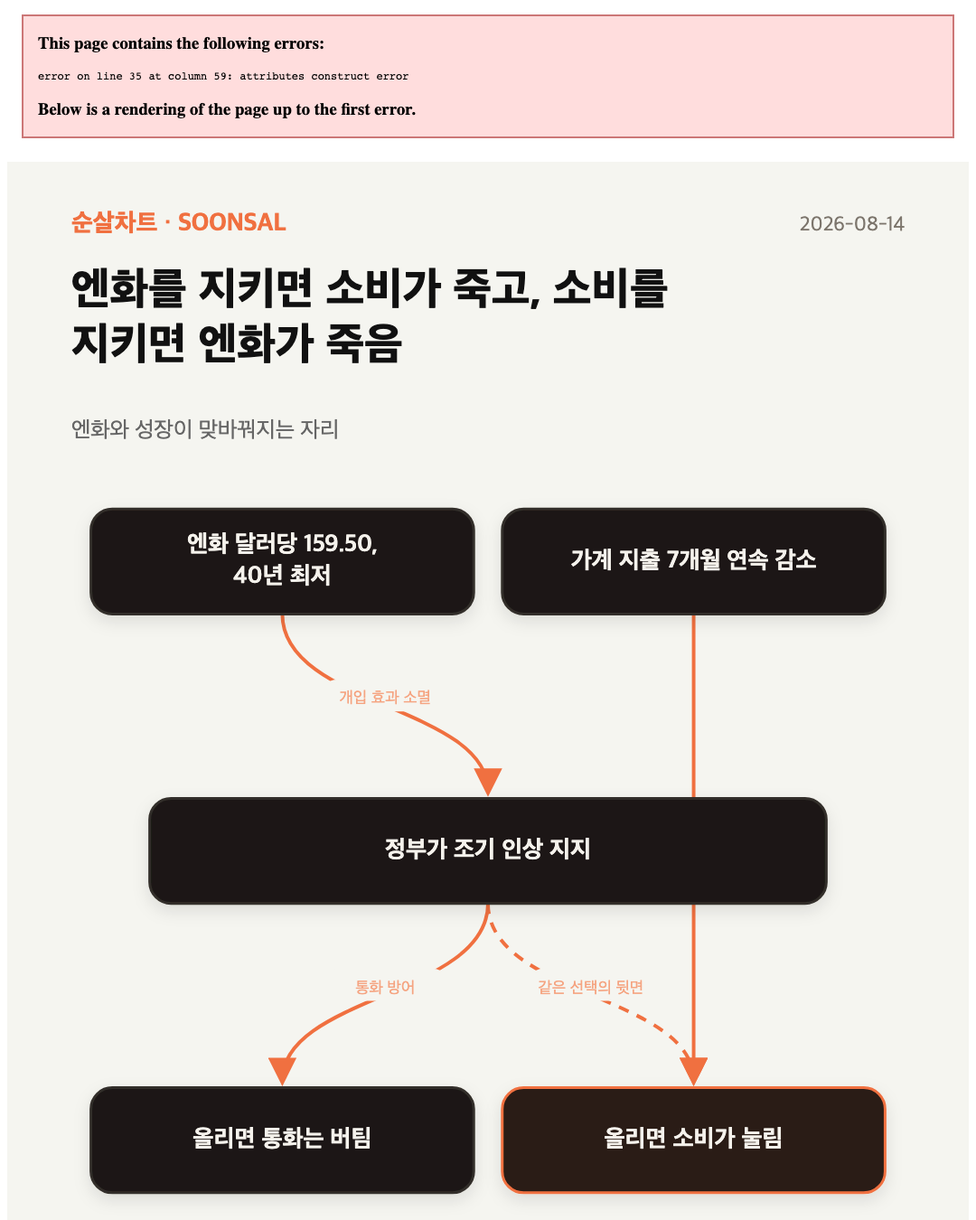
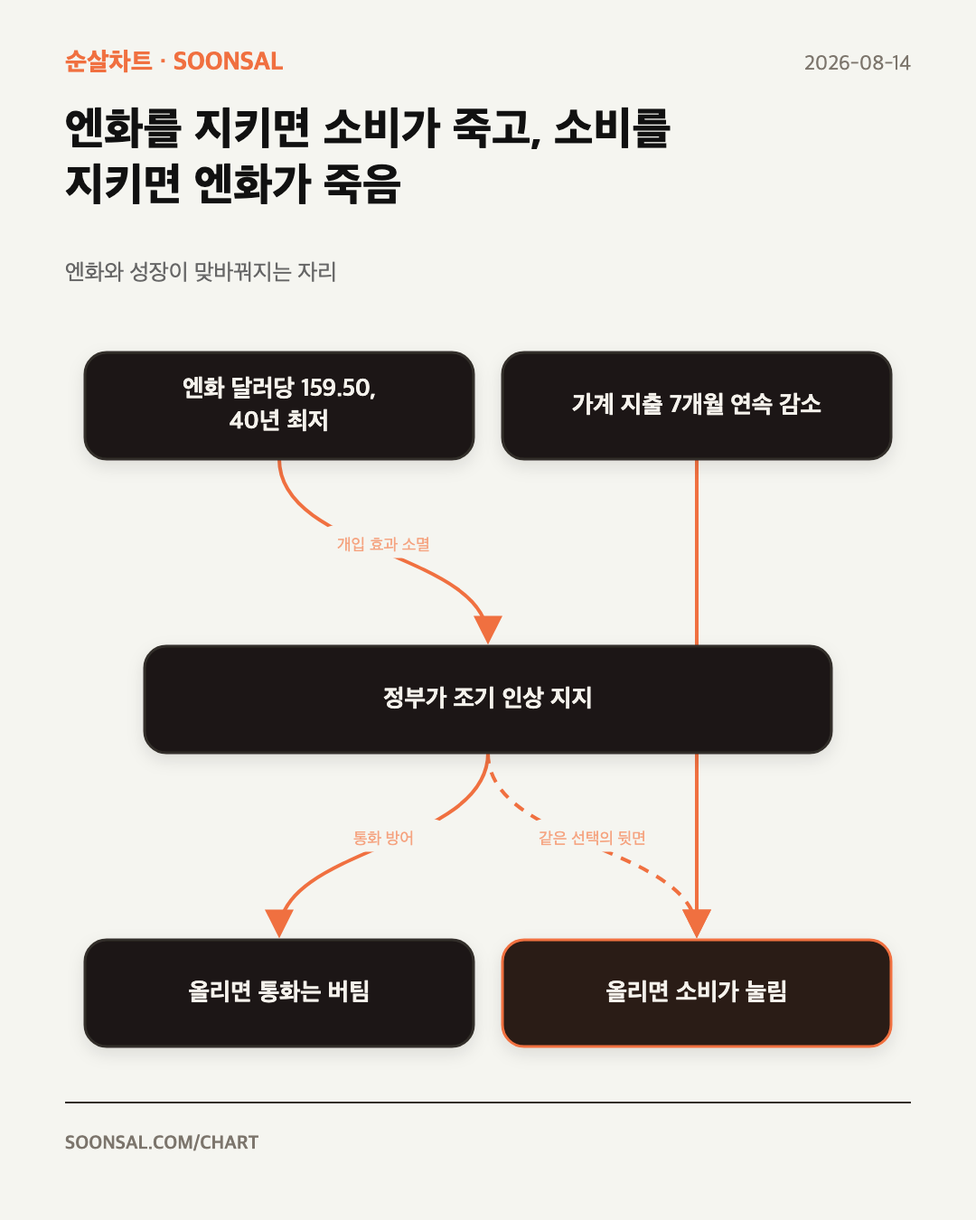
차트가 사라진 것을 고친다 — 치환 안 된 자리가 SVG를 깨뜨렸다
팔레트를 상수로 빼면서 f 접두어가 빠진 문자열이 셋 있었다.
{DIA["paper"]} 가 글자 그대로 박혀 SVG 파싱이 실패했고, 페이지는
fallback 으로 떨어져 차트가 통째로 안 보였다.

빌드가 잡도록 문을 달았다. 치환 안 된 중괄호와 파싱 실패를 둘 다 본다.
눈으로 잡을 문제가 아니었다.

diff --git a/chart/2026/0814.html b/chart/2026/0814.html
@@ -31,7 +31,7 @@
     .story-label{display:inline-block;font-size:10px;font-weight:800;letter-spacing:1.1px;text-transform:uppercase;color:color-mix(in srgb,var(--topic-accent) 42%,#fff);background:color-mix(in srgb,var(--topic-accent) 18%,#1d1d1c);border:1px solid color-mix(in srgb,var(--topic-accent) 32%,transparent);padding:4px 10px;border-radius:999px;margin-bottom:13px}
     .morning-diagram text,.diagram-frame,.diagram-live{word-break:keep-all;overflow-wrap:normal;line-break:strict}.story-title{max-width:580px;font-size:25px;font-weight:900;line-height:1.32;margin:0 0 14px;color:#f5f2ed;letter-spacing:-.045em;word-break:keep-all}
     .opening{max-width:600px;font-size:16px;font-weight:600;line-height:1.75;color:#beb8b0;margin:0 0 22px;word-break:keep-all}
-    figure{margin:23px 0}.diagram-live{position:relative;overflow:hidden;aspect-ratio:1080/860;border:1px solid color-mix(in srgb,var(--topic-accent) 20%,#d8d2c8);border-radius:13px;background:var(--paper);box-shadow:0 12px 30px rgba(0,0,0,.22);contain:layout paint}.diagram-poster,.diagram-live img,.diagram-live svg{display:block;width:100%;height:auto}.diagram-live svg{position:absolute;inset:0}.diagram-frame{display:flex;flex-direction:column}.diagram-tip{margin:7px 1px 0 auto;color:#8b8378;font-size:11.5px;font-weight:600}@media(prefers-reduced-motion:reduce){.diagram-tip{display:none}}.diagram-replay{display:flex;align-items:center;gap:7px;margin:12px 1px 0 auto;padding:9px 14px;border:1px solid color-mix(in srgb,var(--topic-accent) 55%,#F07040);border-radius:999px;background:color-mix(in srgb,var(--topic-accent) 17%,#24201d);color:#ffd6c4;box-shadow:0 7px 20px rgba(0,0,0,.18);font:inherit;font-size:12.5px;font-weight:900;cursor:pointer;transition:transform .18s ease,border-color .18s ease,background .18s ease}.diagram-replay span{display:grid;place-items:center;width:19px;height:19px;border-radius:50%;background:#F07040;color:#171311;font-size:14px}.diagram-replay:hover{transform:translateY(-1px);border-color:#F07040;background:#30241f}.diagram-replay:focus-visible{outline:2px solid var(--topic-accent);outline-offset:2px}
+    figure{margin:23px 0}.diagram-live{position:relative;overflow:hidden;aspect-ratio:1080/860;border:1px solid color-mix(in srgb,var(--topic-accent) 20%,#d8d2c8);border-radius:13px;background:#141210;box-shadow:0 12px 30px rgba(0,0,0,.22);contain:layout paint}.diagram-poster,.diagram-live img,.diagram-live svg{display:block;width:100%;height:auto}.diagram-live svg{position:absolute;inset:0}.diagram-frame{display:flex;flex-direction:column}.diagram-tip{margin:7px 1px 0 auto;color:#8b8378;font-size:11.5px;font-weight:600}@media(prefers-reduced-motion:reduce){.diagram-tip{display:none}}.diagram-replay{display:flex;align-items:center;gap:7px;margin:12px 1px 0 auto;padding:9px 14px;border:1px solid color-mix(in srgb,var(--topic-accent) 55%,#F07040);border-radius:999px;background:color-mix(in srgb,var(--topic-accent) 17%,#24201d);color:#ffd6c4;box-shadow:0 7px 20px rgba(0,0,0,.18);font:inherit;font-size:12.5px;font-weight:900;cursor:pointer;transition:transform .18s ease,border-color .18s ease,background .18s ease}.diagram-replay span{display:grid;place-items:center;width:19px;height:19px;border-radius:50%;background:#F07040;color:#171311;font-size:14px}.diagram-replay:hover{transform:translateY(-1px);border-color:#F07040;background:#30241f}.diagram-replay:focus-visible{outline:2px solid var(--topic-accent);outline-offset:2px}
     .diagram-live.is-prepared .motion-node{cursor:pointer}.diagram-live .motion-node:hover .motion-node-shape{stroke:#F07040;stroke-width:4.5}.diagram-live.is-prepared .motion-step{opacity:0;transform-box:fill-box;transform-origin:center}.diagram-live.is-running .motion-node{animation:morning-node-in 620ms cubic-bezier(.16,1,.3,1) var(--motion-delay) forwards}.diagram-live.is-running .motion-edge{animation:morning-edge-in 600ms cubic-bezier(.16,1,.3,1) var(--motion-delay) forwards}.diagram-live.is-running .motion-risk .motion-node-shape{animation:morning-risk-pulse 810ms cubic-bezier(.16,1,.3,1) var(--motion-accent-delay) both}.diagram-live.is-paused .motion-step,.diagram-live.is-paused .motion-node-shape{animation-play-state:paused!important}
     @keyframes morning-node-in{0%{opacity:0;transform:translateY(18px) scale(.97)}100%{opacity:1;transform:none}}@keyframes morning-edge-in{0%{opacity:0;clip-path:inset(0 0 100% 0)}12%{opacity:1}100%{opacity:1;clip-path:inset(0)}}@keyframes morning-risk-pulse{0%,100%{filter:url(#shadow)}55%{filter:url(#shadow) drop-shadow(0 0 13px rgba(240,112,64,.42))}}
     @media(prefers-reduced-motion:reduce){.diagram-live .motion-step{opacity:1!important;transform:none!important;clip-path:none!important;animation:none!important}.diagram-replay{display:none}}
@@ -175,56 +175,56 @@ color:#8a857c;text-decoration:none}
   <div class="story-label">01 · 반도체 · 소비</div>
   <h2 class="story-title">새 폰값 100달러 인상, 메모리 부족 탓이라고 함</h2>
   <p class="opening bullet">구글이 새 픽셀을 내놓으면서 전 기종 값을 100달러 올렸음. 이어지는 메모리 공급 부족 탓으로 알려졌음</p>
-  <figure class="diagram-frame"><div class="diagram-live" role="img" aria-label="메모리 부족이 소비자 가격에 닿은 경로" data-diagram-src="/chart/assets/20260814/pixel-memory-diagram.svg?v=b7961646b1ec" data-diagram-mobile-src="/chart/assets/20260814/pixel-memory-diagram-mobile.svg?v=9c6ca61cf3a7" data-diagram-orientation="TB"><picture class="diagram-poster"><source media="(max-width:720px)" srcset="/chart/assets/20260814/pixel-memory-diagram-mobile.svg?v=9c6ca61cf3a7"><img src="/chart/assets/20260814/pixel-memory-diagram.svg?v=b7961646b1ec" alt="" aria-hidden="true" loading="lazy"></picture></div><button class="diagram-replay" type="button" aria-label="메모리 부족이 소비자 가격에 닿은 경로 애니메이션 다시 보기"><span aria-hidden="true">↻</span> 흐름 한 번 더</button><p class="diagram-tip">박스를 누르면 그 단계부터 다시 흐릅니다</p></figure>
+  <figure class="diagram-frame"><div class="diagram-live" role="img" aria-label="메모리 부족이 소비자 가격에 닿은 경로" data-diagram-src="/chart/assets/20260814/pixel-memory-diagram.svg?v=c80f969edacc" data-diagram-mobile-src="/chart/assets/20260814/pixel-memory-diagram-mobile.svg?v=7c88f45dd4fa" data-diagram-orientation="TB"><picture class="diagram-poster"><source media="(max-width:720px)" srcset="/chart/assets/20260814/pixel-memory-diagram-mobile.svg?v=7c88f45dd4fa"><img src="/chart/assets/20260814/pixel-memory-diagram.svg?v=c80f969edacc" alt="" aria-hidden="true" loading="lazy"></picture></div><button class="diagram-replay" type="button" aria-label="메모리 부족이 소비자 가격에 닿은 경로 애니메이션 다시 보기"><span aria-hidden="true">↻</span> 흐름 한 번 더</button><p class="diagram-tip">박스를 누르면 그 단계부터 다시 흐릅니다</p></figure>
   <div class="soonsal-point"><strong>순살 포인트</strong><p>부품값이 오르는 국면과 완성품값이 오르는 국면은 투자자에게 다른 뜻임. 뒤쪽은 수요가 값을 견딜 수 있는지가 다음 질문이 됨</p></div>
 </article><article class="story morning-topic topic-fx" id="yen-trap" data-topic-theme="fx" data-ss-story="m20260814-yen-trap" data-ss-issue="m20260814" style="--topic-accent:#3E6A65;--topic-wash:#EDF5F2;--topic-soft:#D9EAE5">
   <span class="story-index" aria-hidden="true">02</span>
   <div class="story-label">02 · 환율 · 통화정책</div>
   <h2 class="story-title">엔화를 지키면 소비가 죽고, 소비를 지키면 엔화가 죽음</h2>
   <p class="opening bullet">일본 정부가 중앙은행에 금리를 빨리 올리라고 힘을 싣는다는 보도가 나왔음. 엔화는 달러당 159.50 부근으로 40년 만의 최저 수준임</p>
-  <figure class="diagram-frame"><div class="diagram-live" role="img" aria-label="엔화와 성장이 맞바꿔지는 자리" data-diagram-src="/chart/assets/20260814/yen-trap-diagram.svg?v=0e2c404a6697" data-diagram-mobile-src="/chart/assets/20260814/yen-trap-diagram-mobile.svg?v=e6f92178e7f3" data-diagram-orientation="TB"><picture class="diagram-poster"><source media="(max-width:720px)" srcset="/chart/assets/20260814/yen-trap-diagram-mobile.svg?v=e6f92178e7f3"><img src="/chart/assets/20260814/yen-trap-diagram.svg?v=0e2c404a6697" alt="" aria-hidden="true" loading="lazy"></picture></div><button class="diagram-replay" type="button" aria-label="엔화와 성장이 맞바꿔지는 자리 애니메이션 다시 보기"><span aria-hidden="true">↻</span> 흐름 한 번 더</button><p class="diagram-tip">박스를 누르면 그 단계부터 다시 흐릅니다</p></figure>
+  <figure class="diagram-frame"><div class="diagram-live" role="img" aria-label="엔화와 성장이 맞바꿔지는 자리" data-diagram-src="/chart/assets/20260814/yen-trap-diagram.svg?v=96419b349d0a" data-diagram-mobile-src="/chart/assets/20260814/yen-trap-diagram-mobile.svg?v=2e14d5642ea7" data-diagram-orientation="TB"><picture class="diagram-poster"><source media="(max-width:720px)" srcset="/chart/assets/20260814/yen-trap-diagram-mobile.svg?v=2e14d5642ea7"><img src="/chart/assets/20260814/yen-trap-diagram.svg?v=96419b349d0a" alt="" aria-hidden="true" loading="lazy"></picture></div><button class="diagram-replay" type="button" aria-label="엔화와 성장이 맞바꿔지는 자리 애니메이션 다시 보기"><span aria-hidden="true">↻</span> 흐름 한 번 더</button><p class="diagram-tip">박스를 누르면 그 단계부터 다시 흐릅니다</p></figure>
   <div class="soonsal-point"><strong>순살 포인트</strong><p>160 부근은 원화를 포함한 아시아 통화가 같이 흔들리는 자리임. 일본이 어느 쪽으로 가든 그 파장이 원화까지 온다는 뜻임</p></div>
 </article><article class="story morning-topic topic-markets" id="pokemon-index" data-topic-theme="markets" data-ss-story="m20260814-pokemon-index" data-ss-issue="m20260814" style="--topic-accent:#8A4B42;--topic-wash:#F7F3EE;--topic-soft:#EAE1D8">
   <span class="story-index" aria-hidden="true">03</span>
   <div class="story-label">03 · 가상자산 · 투자심리</div>
   <h2 class="story-title">포켓몬 카드가 비트코인도 지수도 이겼음</h2>
   <p class="opening bullet">지난 3개월 포켓몬 카드 지수가 약 29.4% 올랐음. 같은 기간 미국 대표 지수는 약 5% 올랐고, 비트코인은 약 20% 내렸음</p>
-  <figure class="diagram-frame"><div class="diagram-live" role="img" aria-label="돈이 코인에서 카드로 옮겨 앉은 자리" data-diagram-src="/chart/assets/20260814/pokemon-index-diagram.svg?v=11d5ecf7bcb4" data-diagram-mobile-src="/chart/assets/20260814/pokemon-index-diagram-mobile.svg?v=aa64c7a4c551" data-diagram-orientation="TB"><picture class="diagram-poster"><source media="(max-width:720px)" srcset="/chart/assets/20260814/pokemon-index-diagram-mobile.svg?v=aa64c7a4c551"><img src="/chart/assets/20260814/pokemon-index-diagram.svg?v=11d5ecf7bcb4" alt="" aria-hidden="true" loading="lazy"></picture></div><button class="diagram-replay" type="button" aria-label="돈이 코인에서 카드로 옮겨 앉은 자리 애니메이션 다시 보기"><span aria-hidden="true">↻</span> 흐름 한 번 더</button><p class="diagram-tip">박스를 누르면 그 단계부터 다시 흐릅니다</p></figure>
+  <figure class="diagram-frame"><div class="diagram-live" role="img" aria-label="돈이 코인에서 카드로 옮겨 앉은 자리" data-diagram-src="/chart/assets/20260814/pokemon-index-diagram.svg?v=6aeae6942ebb" data-diagram-mobile-src="/chart/assets/20260814/pokemon-index-diagram-mobile.svg?v=be7eaf256123" data-diagram-orientation="TB"><picture class="diagram-poster"><source media="(max-width:720px)" srcset="/chart/assets/20260814/pokemon-index-diagram-mobile.svg?v=be7eaf256123"><img src="/chart/assets/20260814/pokemon-index-diagram.svg?v=6aeae6942ebb" alt="" aria-hidden="true" loading="lazy"></picture></div><button class="diagram-replay" type="button" aria-label="돈이 코인에서 카드로 옮겨 앉은 자리 애니메이션 다시 보기"><span aria-hidden="true">↻</span> 흐름 한 번 더</button><p class="diagram-tip">박스를 누르면 그 단계부터 다시 흐릅니다</p></figure>
   <div class="soonsal-point"><strong>순살 포인트</strong><p>값이 오르는 곳이 반드시 그 자산이 좋아졌다는 뜻은 아님. 어디서 돈이 빠져나와 어디로 갔는지가 더 자주 답임</p></div>
 </article><article class="story morning-topic topic-markets" id="record-vs-longend" data-topic-theme="markets" data-ss-story="m20260814-record-vs-longend" data-ss-issue="m20260814" style="--topic-accent:#8A4B42;--topic-wash:#F7F3EE;--topic-soft:#EAE1D8">
   <span class="story-index" aria-hidden="true">04</span>
   <div class="story-label">04 · 금리 · 거시경제</div>
   <h2 class="story-title">주가는 사상 최고인데, 30년 국채 금리도 25년 만에 최고임</h2>
   <p class="opening bullet">미국 대표 지수가 7,798.99로 사상 최고를 새로 썼음. 같은 국면에 30년 국채는 5.216%에 팔렸고, 이는 2001년 이후 가장 높은 조달 금리임</p>
-  <figure class="diagram-frame"><div class="diagram-live" role="img" aria-label="지수와 장기 금리가 갈라선 자리" data-diagram-src="/chart/assets/20260814/record-vs-longend-diagram.svg?v=c977adb851b9" data-diagram-mobile-src="/chart/assets/20260814/record-vs-longend-diagram-mobile.svg?v=82aa61cec183" data-diagram-orientation="TB"><picture class="diagram-poster"><source media="(max-width:720px)" srcset="/chart/assets/20260814/record-vs-longend-diagram-mobile.svg?v=82aa61cec183"><img src="/chart/assets/20260814/record-vs-longend-diagram.svg?v=c977adb851b9" alt="" aria-hidden="true" loading="lazy"></picture></div><button class="diagram-replay" type="button" aria-label="지수와 장기 금리가 갈라선 자리 애니메이션 다시 보기"><span aria-hidden="true">↻</span> 흐름 한 번 더</button><p class="diagram-tip">박스를 누르면 그 단계부터 다시 흐릅니다</p></figure>
+  <figure class="diagram-frame"><div class="diagram-live" role="img" aria-label="지수와 장기 금리가 갈라선 자리" data-diagram-src="/chart/assets/20260814/record-vs-longend-diagram.svg?v=25cc2354d9a8" data-diagram-mobile-src="/chart/assets/20260814/record-vs-longend-diagram-mobile.svg?v=e6068d8bc3b2" data-diagram-orientation="TB"><picture class="diagram-poster"><source media="(max-width:720px)" srcset="/chart/assets/20260814/record-vs-longend-diagram-mobile.svg?v=e6068d8bc3b2"><img src="/chart/assets/20260814/record-vs-longend-diagram.svg?v=25cc2354d9a8" alt="" aria-hidden="true" loading="lazy"></picture></div><button class="diagram-replay" type="button" aria-label="지수와 장기 금리가 갈라선 자리 애니메이션 다시 보기"><span aria-hidden="true">↻</span> 흐름 한 번 더</button><p class="diagram-tip">박스를 누르면 그 단계부터 다시 흐릅니다</p></figure>
   <div class="soonsal-point"><strong>순살 포인트</strong><p>지수가 오른 이유와 금리가 오른 이유가 다름. 여기서 지수가 더 오르려면 할인율이 아니라 실적이 밀어 올려야 함. 한국 증시는 미국 장기 금리에 붙어 있어 이 간극이 그대로 넘어옴</p></div>
 </article><article class="story morning-topic topic-ai" id="lease-shadow" data-topic-theme="ai" data-ss-story="m20260814-lease-shadow" data-ss-issue="m20260814" style="--topic-accent:#4D6F8A;--topic-wash:#EEF4F7;--topic-soft:#DDE9EF">
   <span class="story-index" aria-hidden="true">05</span>
   <div class="story-label">05 · AI · 신용</div>
   <h2 class="story-title">데이터센터 임차 약정 대부분이, 장부 밖에 있음</h2>
   <p class="opening bullet">대형 클라우드 사업자의 데이터센터 임차 약정 가운데 장부에 잡힌 몫은 일부뿐임. 아직 시작되지 않아 주석에만 적힌 약정이 그 5배 규모임</p>
-  <figure class="diagram-frame"><div class="diagram-live" role="img" aria-label="장부 밖에 쌓이는 AI 설비 약정" data-diagram-src="/chart/assets/20260814/lease-shadow-diagram.svg?v=af6aa8117731" data-diagram-mobile-src="/chart/assets/20260814/lease-shadow-diagram-mobile.svg?v=c024bfa2aa0b" data-diagram-orientation="TB"><picture class="diagram-poster"><source media="(max-width:720px)" srcset="/chart/assets/20260814/lease-shadow-diagram-mobile.svg?v=c024bfa2aa0b"><img src="/chart/assets/20260814/lease-shadow-diagram.svg?v=af6aa8117731" alt="" aria-hidden="true" loading="lazy"></picture></div><button class="diagram-replay" type="button" aria-label="장부 밖에 쌓이는 AI 설비 약정 애니메이션 다시 보기"><span aria-hidden="true">↻</span> 흐름 한 번 더</button><p class="diagram-tip">박스를 누르면 그 단계부터 다시 흐릅니다</p></figure>
+  <figure class="diagram-frame"><div class="diagram-live" role="img" aria-label="장부 밖에 쌓이는 AI 설비 약정" data-diagram-src="/chart/assets/20260814/lease-shadow-diagram.svg?v=5e7a5cd0ab7e" data-diagram-mobile-src="/chart/assets/20260814/lease-shadow-diagram-mobile.svg?v=b53164834359" data-diagram-orientation="TB"><picture class="diagram-poster"><source media="(max-width:720px)" srcset="/chart/assets/20260814/lease-shadow-diagram-mobile.svg?v=b53164834359"><img src="/chart/assets/20260814/lease-shadow-diagram.svg?v=5e7a5cd0ab7e" alt="" aria-hidden="true" loading="lazy"></picture></div><button class="diagram-replay" type="button" aria-label="장부 밖에 쌓이는 AI 설비 약정 애니메이션 다시 보기"><span aria-hidden="true">↻</span> 흐름 한 번 더</button><p class="diagram-tip">박스를 누르면 그 단계부터 다시 흐릅니다</p></figure>
   <div class="soonsal-point"><strong>순살 포인트</strong><p>AI 투자 규모를 장부만 보고 재면 실제보다 작게 잡힘. 설비·기자재 발주 전망도 같은 눈으로 걸러야 함</p></div>
 </article><article class="story morning-topic topic-markets" id="kospi-rebound" data-topic-theme="markets" data-ss-story="m20260814-kospi-rebound" data-ss-issue="m20260814" style="--topic-accent:#8A4B42;--topic-wash:#F7F3EE;--topic-soft:#EAE1D8">
   <span class="story-index" aria-hidden="true">06</span>
   <div class="story-label">06 · 한국 시장 · 반도체</div>
   <h2 class="story-title">코스피가 10거래일에 22% 올랐는데, 아직 고점보다 25% 아래임</h2>
   <p class="opening bullet">코스피가 6,813.34로 3.56% 올라 15거래일 만에 6,800선을 되찾았음. 지난달 말 바닥 이후 10거래일 동안 약 22% 오른 자리임</p>
-  <figure class="diagram-frame"><div class="diagram-live" role="img" aria-label="가격은 돌아왔지만 국면은 아직인 자리" data-diagram-src="/chart/assets/20260814/kospi-rebound-diagram.svg?v=74f83bdfc661" data-diagram-mobile-src="/chart/assets/20260814/kospi-rebound-diagram-mobile.svg?v=bf5869eeb37b" data-diagram-orientation="TB"><picture class="diagram-poster"><source media="(max-width:720px)" srcset="/chart/assets/20260814/kospi-rebound-diagram-mobile.svg?v=bf5869eeb37b"><img src="/chart/assets/20260814/kospi-rebound-diagram.svg?v=74f83bdfc661" alt="" aria-hidden="true" loading="lazy"></picture></div><button class="diagram-replay" type="button" aria-label="가격은 돌아왔지만 국면은 아직인 자리 애니메이션 다시 보기"><span aria-hidden="true">↻</span> 흐름 한 번 더</button><p class="diagram-tip">박스를 누르면 그 단계부터 다시 흐릅니다</p></figure>
+  <figure class="diagram-frame"><div class="diagram-live" role="img" aria-label="가격은 돌아왔지만 국면은 아직인 자리" data-diagram-src="/chart/assets/20260814/kospi-rebound-diagram.svg?v=34c495d20d70" data-diagram-mobile-src="/chart/assets/20260814/kospi-rebound-diagram-mobile.svg?v=65c918a4b37f" data-diagram-orientation="TB"><picture class="diagram-poster"><source media="(max-width:720px)" srcset="/chart/assets/20260814/kospi-rebound-diagram-mobile.svg?v=65c918a4b37f"><img src="/chart/assets/20260814/kospi-rebound-diagram.svg?v=34c495d20d70" alt="" aria-hidden="true" loading="lazy"></picture></div><button class="diagram-replay" type="button" aria-label="가격은 돌아왔지만 국면은 아직인 자리 애니메이션 다시 보기"><span aria-hidden="true">↻</span> 흐름 한 번 더</button><p class="diagram-tip">박스를 누르면 그 단계부터 다시 흐릅니다</p></figure>
   <div class="soonsal-point"><strong>순살 포인트</strong><p>반등의 성격이 수급인지 실적인지에 따라 다음 구간이 갈림. 외국인이 계속 사는지, 미국 장기 금리가 버텨주는지 두 가지를 같이 봐야 함</p></div>
 </article><article class="story morning-topic topic-markets" id="leverage-curb" data-topic-theme="markets" data-ss-story="m20260814-leverage-curb" data-ss-issue="m20260814" style="--topic-accent:#8A4B42;--topic-wash:#F7F3EE;--topic-soft:#EAE1D8">
   <span class="story-index" aria-hidden="true">07</span>
   <div class="story-label">07 · 한국 시장 · 규제</div>
   <h2 class="story-title">레버리지 상품 거래가 급감했고, 새로 들어오려면 모의거래 5일을 해야 함</h2>
   <p class="opening bullet">현금 증거금 요건을 올린 뒤 레버리지 상장지수상품 거래가 크게 줄었음. 개별 종목 레버리지 상품에 새로 들어오는 투자자는 최소 5일의 모의거래를 마쳐야 함</p>
-  <figure class="diagram-frame"><div class="diagram-live" role="img" aria-label="규제가 진폭을 걷어낸 자리" data-diagram-src="/chart/assets/20260814/leverage-curb-diagram.svg?v=c2dbbc68e850" data-diagram-mobile-src="/chart/assets/20260814/leverage-curb-diagram-mobile.svg?v=ea94dbc31850" data-diagram-orientation="TB"><picture class="diagram-poster"><source media="(max-width:720px)" srcset="/chart/assets/20260814/leverage-curb-diagram-mobile.svg?v=ea94dbc31850"><img src="/chart/assets/20260814/leverage-curb-diagram.svg?v=c2dbbc68e850" alt="" aria-hidden="true" loading="lazy"></picture></div><button class="diagram-replay" type="button" aria-label="규제가 진폭을 걷어낸 자리 애니메이션 다시 보기"><span aria-hidden="true">↻</span> 흐름 한 번 더</button><p class="diagram-tip">박스를 누르면 그 단계부터 다시 흐릅니다</p></figure>
+  <figure class="diagram-frame"><div class="diagram-live" role="img" aria-label="규제가 진폭을 걷어낸 자리" data-diagram-src="/chart/assets/20260814/leverage-curb-diagram.svg?v=3f3402a03b58" data-diagram-mobile-src="/chart/assets/20260814/leverage-curb-diagram-mobile.svg?v=620dbeac5333" data-diagram-orientation="TB"><picture class="diagram-poster"><source media="(max-width:720px)" srcset="/chart/assets/20260814/leverage-curb-diagram-mobile.svg?v=620dbeac5333"><img src="/chart/assets/20260814/leverage-curb-diagram.svg?v=3f3402a03b58" alt="" aria-hidden="true" loading="lazy"></picture></div><button class="diagram-replay" type="button" aria-label="규제가 진폭을 걷어낸 자리 애니메이션 다시 보기"><span aria-hidden="true">↻</span> 흐름 한 번 더</button><p class="diagram-tip">박스를 누르면 그 단계부터 다시 흐릅니다</p></figure>
   <div class="soonsal-point"><strong>순살 포인트</strong><p>규제가 시장을 죽였는지 살렸는지는 방향이 아니라 진폭으로 봐야 함. 개인 자금이 어디로 옮겨 가는지가 다음 관전 지점임</p></div>
 </article><article class="story morning-topic topic-markets" id="grocery-creep" data-topic-theme="markets" data-ss-story="m20260814-grocery-creep" data-ss-issue="m20260814" style="--topic-accent:#8A4B42;--topic-wash:#F7F3EE;--topic-soft:#EAE1D8">
   <span class="story-index" aria-hidden="true">08</span>
   <div class="story-label">08 · 물가 · 소비</div>
   <h2 class="story-title">식품값은 한 번 오르면, 충격이 지나가도 안 내려옴</h2>
   <p class="opening bullet">지난 반년 동안 토마토·상추에 이어 사과까지 값이 뛰었음. 앞서 커피와 소고기, 달걀이 같은 길을 지나갔음</p>
-  <figure class="diagram-frame"><div class="diagram-live" role="img" aria-label="지표는 내려가는데 장바구니는 안 내려가는 자리" data-diagram-src="/chart/assets/20260814/grocery-creep-diagram.svg?v=f76ae8f54d5b" data-diagram-mobile-src="/chart/assets/20260814/grocery-creep-diagram-mobile.svg?v=065b41123535" data-diagram-orientation="TB"><picture class="diagram-poster"><source media="(max-width:720px)" srcset="/chart/assets/20260814/grocery-creep-diagram-mobile.svg?v=065b41123535"><img src="/chart/assets/20260814/grocery-creep-diagram.svg?v=f76ae8f54d5b" alt="" aria-hidden="true" loading="lazy"></picture></div><button class="diagram-replay" type="button" aria-label="지표는 내려가는데 장바구니는 안 내려가는 자리 애니메이션 다시 보기"><span aria-hidden="true">↻</span> 흐름 한 번 더</button><p class="diagram-tip">박스를 누르면 그 단계부터 다시 흐릅니다</p></figure>
+  <figure class="diagram-frame"><div class="diagram-live" role="img" aria-label="지표는 내려가는데 장바구니는 안 내려가는 자리" data-diagram-src="/chart/assets/20260814/grocery-creep-diagram.svg?v=58dda9aff0cf" data-diagram-mobile-src="/chart/assets/20260814/grocery-creep-diagram-mobile.svg?v=a2ef6388ce71" data-diagram-orientation="TB"><picture class="diagram-poster"><source media="(max-width:720px)" srcset="/chart/assets/20260814/grocery-creep-diagram-mobile.svg?v=a2ef6388ce71"><img src="/chart/assets/20260814/grocery-creep-diagram.svg?v=58dda9aff0cf" alt="" aria-hidden="true" loading="lazy"></picture></div><button class="diagram-replay" type="button" aria-label="지표는 내려가는데 장바구니는 안 내려가는 자리 애니메이션 다시 보기"><span aria-hidden="true">↻</span> 흐름 한 번 더</button><p class="diagram-tip">박스를 누르면 그 단계부터 다시 흐릅니다</p></figure>
   <div class="soonsal-point"><strong>순살 포인트</strong><p>물가 지표가 좋아졌다는 말과 장바구니가 가벼워졌다는 말은 다름. 이 간극이 길어지면 정책보다 정치가 먼저 움직임</p></div>
 </article></main>
 <footer class="memo-footer"><nav class="page-nav" aria-label="순살차트 둘러보기"><a href="/chart/">지난 순살차트 보기 →</a></nav></footer></div>
